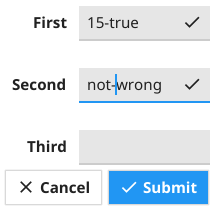
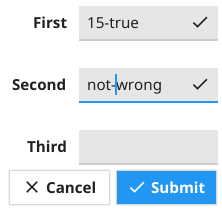
As suggestion on twitter, make dialog buttons the same size

diff --git a/widget/form.go b/widget/form.go
@@ -250,7 +250,8 @@ func (f *Form) CreateRenderer() fyne.WidgetRenderer {
 
 	f.cancelButton = &Button{Icon: theme.CancelIcon(), OnTapped: f.OnCancel}
 	f.submitButton = &Button{Icon: theme.ConfirmIcon(), OnTapped: f.OnSubmit, Importance: HighImportance}
-	f.buttonBox = fyne.NewContainerWithLayout(layout.NewHBoxLayout(), layout.NewSpacer(), f.cancelButton, f.submitButton)
+	buttons := &fyne.Container{Layout: layout.NewGridLayoutWithRows(1), Objects: []fyne.CanvasObject{f.cancelButton, f.submitButton}}
+	f.buttonBox = &fyne.Container{Layout: layout.NewBorderLayout(nil, nil, nil, buttons), Objects: []fyne.CanvasObject{buttons}}
 
 	objects := make([]fyne.CanvasObject, len(f.Items)*2)
 	for i, item := range f.Items {

diff --git a/dialog/file.go b/dialog/file.go
@@ -179,7 +179,7 @@ func (f *fileDialog) makeUI() fyne.CanvasObject {
 			}
 		}
 	})
-	buttons := container.NewHBox(f.dismiss, f.open)
+	buttons := container.NewGridWithRows(1, f.dismiss, f.open)
 
 	f.filesScroll = container.NewScroll(nil) // filesScroll's content will be set by setView function.
 	verticalExtra := float32(float64(fileIconSize) * 0.25)
